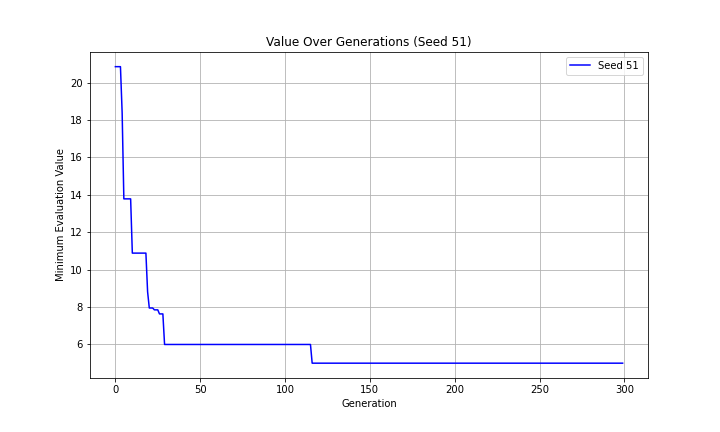
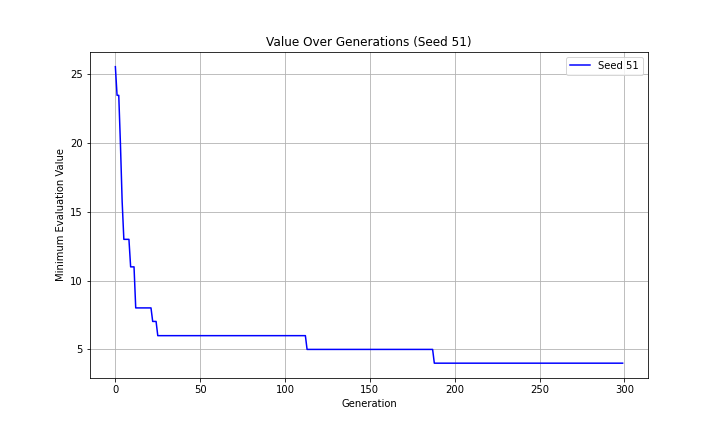
Add files via upload

diff --git a/project_scheduling/problem.py b/project_scheduling/problem.py
@@ -40,123 +40,129 @@ class ResourceConstrainedSchedulingProblem(Problem):
     def _evaluate(self, x, out, *args, **kwargs):
         robot_types, robot_initial_positions, J, p, task_attributes, P, R, T, robot_abilities, workspace, workspace_distance, moving_cost, C, RUB = self.robot_types, self.robot_initial_positions, self.J, self.p, self.task_attributes, self.P, self.R, self.T, self.robot_abilities, self.workspace, self.workspace_distance, self.moving_cost, self.C, self.RUB
 
-        x = x.reshape((x.shape[0], len(R), T))
+        # シード値の範囲を定義
+        seed = 42
+        evaluations = []  # 各シードの評価値を格納するリスト
 
+        rng = np.random.default_rng(seed)  # シード値に基づいた乱数生成器を作成
+
+        x = x.reshape((x.shape[0], len(R), T))
+    
         total_time = []
         failed_tasks = np.zeros_like(x)
         moving_tasks = np.zeros_like(x)  # 移動を記録するための配列
         half_task_flag = np.zeros_like(x)  # 新しいフラグを追加
         robot_failed = np.zeros((x.shape[0], len(R)), dtype=bool)  # ロボットごとの故障状態を追跡 (0: 正常, 1: 故障)
-
+    
         for i in range(x.shape[0]):
             workload = np.zeros(len(J))  # 各タスクの合計仕事量
             task_completed = np.zeros(len(J))
             task_completion_time = np.full(len(J), -1)  # タスクの完了時間を初期化
-            
+                
             print(f"--- Evaluation of Individual {i+1} ---")
-            
+                
             # 各ロボットの現在位置を初期位置に設定
             current_workspace = {r: self.robot_initial_positions[r + 1] for r in range(len(self.R))}
             remaining_distance = {r: 0 for r in range(len(R))}  # 移動中の残り距離
-
-            # pop_size の10単位ごとにシード更新
-            if i % 10 == 0:
-                np.random.seed(random.randint(0, 1000))  # 新しいシードで再設定
-
+    
+                # pop_size の10単位ごとにシード更新
+                #if i % 10 == 0:
+                    #np.random.seed(random.randint(0, 1000))  # 新しいシードで再設定
+    
             for t in range(T):
                 for r in range(len(R)):
                     if robot_failed[i, r] == 1:  # 故障中のロボットは処理をスキップ
                         continue
-                    
+                        
                     task = int(x[i, r, t])
-
+    
                     if task > 0:
                         task_attr = task_attributes[task]  # タスクの属性を取得
                         robot_type = robot_types[r + 1]    # ロボットの種類を取得
                         work = robot_abilities[robot_type][task_attr]  # 仕事量を取得
                         task_workspace = workspace[task]  # タスクのworkspaceを取得
-                        
-                        # 現在の作業場所とタスクの作業場所が異なる場合、移動を考慮
+                            
+                    # 現在の作業場所とタスクの作業場所が異なる場合、移動を考慮
                         if current_workspace[r] != task_workspace:
                             cost = moving_cost[current_workspace[r]][task_workspace]
                             work = work * (1 - cost / robot_abilities[robot_type]['move'])
-            
-                            # 作業量が減少したタスクを記録
+                
+                                # 作業量が減少したタスクを記録
                             half_task_flag[i, r, t] = 1
                             current_workspace[r] = task_workspace
-
-
-                        # タスクIDが前回と同じ場合、移動なしで作業を続行
-                        #if current_workspace[r] == task_workspace:
-                            #remaining_distance[r] = 0
-                        #else:
-                            # 異なるタスクの場合、移動距離を計算
-                            #if remaining_distance[r] == 0:
-                                #remaining_distance[r] = workspace_distance[current_workspace[r]][task_workspace]
-
-                            # 移動可能距離を取得
-                            #move_ability = robot_abilities[robot_type]['move']
-                            #remaining_distance[r] -= move_ability
-
-                            # 移動中の場合の条件分岐
-                            #if remaining_distance[r] > 0:
-                                # 移動中（remaining_distanceが0を超えている場合）、次の時間も移動を続行
-                                #moving_tasks[i, r, t] = 1  # 移動中のフラグを設定
-                                #print(f"[Time {t+1}] Robot {r+1} is moving, remaining distance: {remaining_distance[r]}.")
-                                #continue  # 移動中はタスクを実行しない
-                            
-                            #elif remaining_distance[r] == 0:
-                                # 移動完了（remaining_distanceが0の場合）
-                                #current_workspace[r] = task_workspace
-                                #remaining_distance[r] = 0  # 念のためremaining_distanceを0に設定
-                                #moving_tasks[i, r, t] = 1  # 移動完了フラグを設定
-                                #print(f"[Time {t+1}] Robot {r+1} completed move to workspace {current_workspace[r]}.")
-                                #continue  # 移動が完了した時間ではタスクを実行しない
-                            
-                            #elif remaining_distance[r] < 0:
-                                # 移動完了（remaining_distanceが0以下の場合）、タスクを実行可能
-                                #current_workspace[r] = task_workspace
-                                #half_task_flag[i, r, t] = 1  # half_task_flag を設定
-                                #print(f"[Time {t+1}] Robot {r+1} completed move to workspace {current_workspace[r]}, task execution with reduced workload.")
-                            
-                                # ここで仕事量を半分にする
-                                #work = work / 2
-
-                        # 順序制約を確認
+    
+    
+                            # タスクIDが前回と同じ場合、移動なしで作業を続行
+                            #if current_workspace[r] == task_workspace:
+                                #remaining_distance[r] = 0
+                            #else:
+                                # 異なるタスクの場合、移動距離を計算
+                                #if remaining_distance[r] == 0:
+                                    #remaining_distance[r] = workspace_distance[current_workspace[r]][task_workspace]
+    
+                                # 移動可能距離を取得
+                                #move_ability = robot_abilities[robot_type]['move']
+                                #remaining_distance[r] -= move_ability
+    
+                                # 移動中の場合の条件分岐
+                                #if remaining_distance[r] > 0:
+                                    # 移動中（remaining_distanceが0を超えている場合）、次の時間も移動を続行
+                                    #moving_tasks[i, r, t] = 1  # 移動中のフラグを設定
+                                    #print(f"[Time {t+1}] Robot {r+1} is moving, remaining distance: {remaining_distance[r]}.")
+                                    #continue  # 移動中はタスクを実行しない
+                                
+                                #elif remaining_distance[r] == 0:
+                                    # 移動完了（remaining_distanceが0の場合）
+                                    #current_workspace[r] = task_workspace
+                                    #remaining_distance[r] = 0  # 念のためremaining_distanceを0に設定
+                                    #moving_tasks[i, r, t] = 1  # 移動完了フラグを設定
+                                    #print(f"[Time {t+1}] Robot {r+1} completed move to workspace {current_workspace[r]}.")
+                                    #continue  # 移動が完了した時間ではタスクを実行しない
+                                
+                                #elif remaining_distance[r] < 0:
+                                    # 移動完了（remaining_distanceが0以下の場合）、タスクを実行可能
+                                    #current_workspace[r] = task_workspace
+                                    #half_task_flag[i, r, t] = 1  # half_task_flag を設定
+                                    #print(f"[Time {t+1}] Robot {r+1} completed move to workspace {current_workspace[r]}, task execution with reduced workload.")
+                                
+                                    # ここで仕事量を半分にする
+                                    #work = work / 2
+    
+                            # 順序制約を確認
                         for (pred_task, succ_task) in P:
                             if task > 0:  # タスクが割り当てられている場合
                                 if workload[pred_task - 1] < p[pred_task]:  # 順序制約を確認
                                     if task == succ_task:
                                         work = 0  # 順序制約に違反した場合、仕事量を0に設定
-                                        #print(f"Order constraint prevents task {task} from progressing at time {t+1} by Robot {r+1}")
-
-                        # 故障確率の判定
+                                            #print(f"Order constraint prevents task {task} from progressing at time {t+1} by Robot {r+1}")
+    
+                            # 故障確率の判定
                         success_prob = 1 - C
-                        if np.random.random() > success_prob:
+                        if rng.random() > success_prob:
                             work = 0  # 故障時に仕事量を0に設定
                             failed_tasks[i, r, t:] = 1
                             robot_failed[i, r] = 1  # ロボットを故障状態に設定
                             print(f"Robot {r+1} failed at time {t+1} for task {task}")
                             continue  # 故障したため次の処理へ
-                            
+                                
                         else:
                             failed_tasks[i, r, t] = 0
-
-
-                        # タスクが順序制約を満たし、故障していない場合、仕事量をworkloadに反映
+    
+    
+                            # タスクが順序制約を満たし、故障していない場合、仕事量をworkloadに反映
                         for j in range(len(J)):
                             if task == J[j]:
                                 workload[j] += work
                                 print(f"Task {task} (attribute: {task_attr}) executed by Robot {r+1} (type: {robot_type}) at time {t+1}: Workload = {workload[j]}/{p[task]}")
-
-                                
-                        # タスクが完了しているかをチェック
+    
+                                    
+                            # タスクが完了しているかをチェック
                         if workload[task - 1] >= p[task]:
                             task_completed[task - 1] = 1
                             if task_completion_time[task - 1] == -1:
                                 task_completion_time[task - 1] = t + 1
                                 print(f"Task {task} completed at time {task_completion_time[task - 1]}")
-
+    
             # 全タスクの最大完了時間を評価値とする
             evaluation_value = 0
             if np.all(task_completed):
@@ -166,14 +172,14 @@ class ResourceConstrainedSchedulingProblem(Problem):
                 # 未完了タスクがある場合は、まずTを加算する
                 evaluation_value += T
                 print(f"Some tasks are incomplete. Base evaluation value: {evaluation_value}")
-    
+        
                 # 残りの仕事量を合算する
                 for j in range(len(J)):
                     if task_completed[j] == 0:
                         remaining_workload = p[J[j]] - workload[j]
                         evaluation_value += remaining_workload   # 残り仕事量のみを追加
                         print(f"Task {J[j]} is incomplete. Remaining workload: {remaining_workload}. Total evaluation value now: {evaluation_value}")
-
+    
             total_time.append(evaluation_value)
 
         out["F"] = total_time
